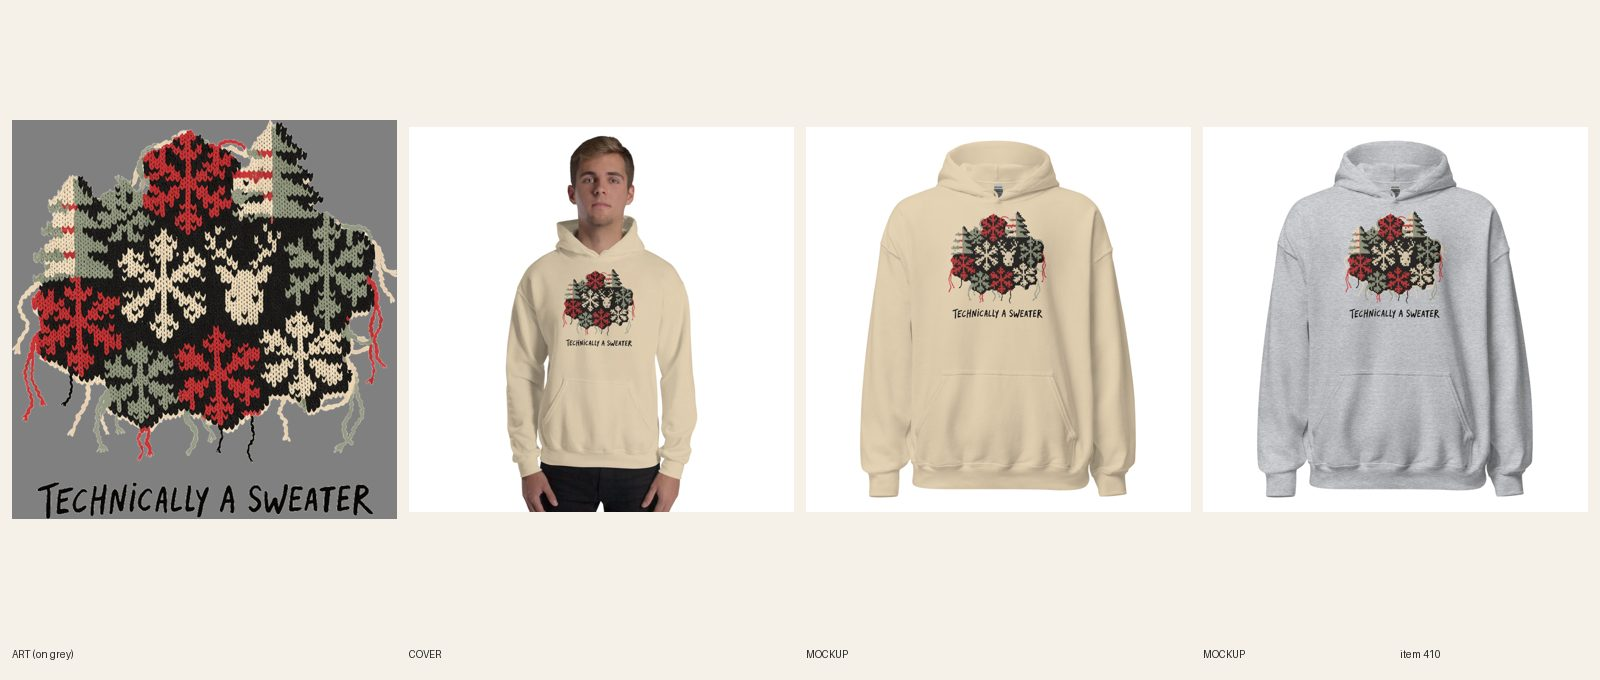
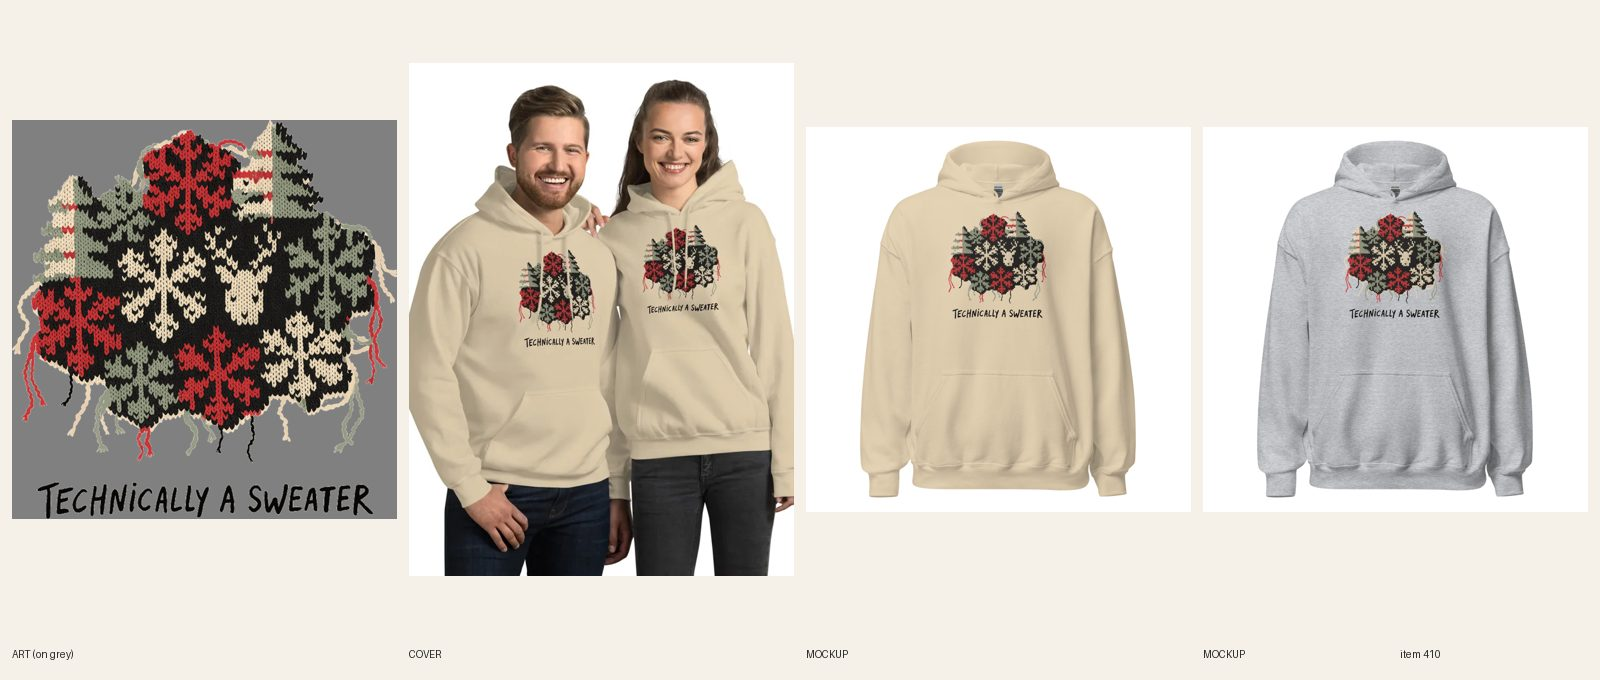
[A] review 410 Technically a Sweater hoodie cover redo

Changed region(s): [[0.25, 0.0926, 0.5, 0.8647]]

diff --git a/src/data/covers.ts b/src/data/covers.ts
@@ -339,7 +339,7 @@ export const covers: Record<string, { src: string; alt: string }> = {
   'womens-christmas-sleighping-in-hoodie': { src: '/covers/womens-christmas-sleighping-in-hoodie.webp', alt: 'Woman looking down and smiling in a Sand Sleighping In hoodie with a sleeping reindeer in a sleigh, against a white brick wall' },
   'womens-football-mom-hut-hut-hooray-hoodie': { src: '/covers/womens-football-mom-hut-hut-hooray-hoodie.webp', alt: 'Woman looking down and smiling in a Navy Hut Hut Hooray hoodie with a football, pennants and a cheer megaphone, against a white brick wall' },
   'womens-christian-ewe-are-loved-lamb-hoodie': { src: '/covers/womens-christian-ewe-are-loved-lamb-hoodie.webp', alt: 'Woman with dark bangs and her hands in the pockets of a Sand Ewe Are Loved hoodie with a woolly lamb holding a daisy' },
-  'unisex-christmas-technically-a-sweater-hoodie': { src: '/covers/unisex-christmas-technically-a-sweater-hoodie.webp', alt: 'Man with short light brown hair in a Sand Technically a Sweater hoodie with a patchwork of knit snowflakes, trees and a reindeer' },
+  'unisex-christmas-technically-a-sweater-hoodie': { src: '/covers/unisex-christmas-technically-a-sweater-hoodie.webp', alt: 'Man and woman smiling together in sand Technically a Sweater Christmas hoodies, the knit-patchwork print fully visible' },
   'womens-y2k-still-loading-zip-hoodie': { src: '/covers/womens-y2k-still-loading-zip-hoodie.webp', alt: 'Woman with dark curly hair smiling in a Navy zip-up hoodie with a small Still Loading Since 1999 retro computer print on the left chest' },
   'mens-gym-gym-rat-hoodie': { src: '/covers/mens-gym-gym-rat-hoodie.webp', alt: 'Man with short black hair and a trimmed beard in a Navy Gym Rat hoodie with a cartoon rat curling a dumbbell under GYM RAT arched in cream, mustard and red letters' },
   'womens-anime-slurp-responsibly-half-zip': { src: '/covers/womens-anime-slurp-responsibly-half-zip.webp', alt: 'Navy half zip pullover seen from the back with a large calico cat slurping ramen under SLURP RESPONSIBLY arched in coral, mint and cream letters' },

diff --git a/docs/pipeline/410-christmas-hoodie-technically-a-sweater.md b/docs/pipeline/410-christmas-hoodie-technically-a-sweater.md
@@ -1,4 +1,4 @@
-status: REDO
+status: REVIEW
 shopify: gid://shopify/Product/15363644686640
 cover: temp (swap)
 lane: A
@@ -27,3 +27,4 @@ kd: 32
 - 2026-10-17 11:14 UTC director: REDO (cover only; art, print, copy and FAQs pass and need no change).
   1. R6.3 / R7.5: this is a unisex hoodie tagged into graphic-hoodies-for-women, and the temp cover (Printful style 1455) shows a man alone, so it would sit in the women's grid as "a man in the women section". Temp mode only publishes covers that pass R6.3. Fix: pick a Printful Gildan 18500 lifestyle style that shows a man AND a woman together (couple style 1427 was used on Turkey Trot; reuse is allowed if you keep `cover: temp (swap)`, R6.6), print fully visible, nothing over TECHNICALLY A SWEATER, cover alt starting 'Man and woman'. If Printful has no couple style for this blank, make the best woman-and-man pair available or leave it in REDO and log it; do not ship the man-only cover.
   2. Everything else stands: FW 1500, lettering legible on Sand and Sport Grey, keyword ugly christmas sweater hoodie used naturally, price $39.99 no compare-at. Back to REVIEW once the cover is swapped.
+- 2026-10-17 12:12 UTC builder [A]: REDO cover fixed. Printful couple style 1427 (Gildan 18500, Sand), a man AND a woman, print fully visible on both, nothing over it, alt starts 'Man and woman'; cover stays `temp (swap)`. Art, print, copy untouched. Sheet regenerated. REVIEW.

diff --git a/docs/intake-log.md b/docs/intake-log.md
@@ -1,3 +1,4 @@
+2026-10-17 12:12 UTC — [A] REVIEW #410 Technically a Sweater hoodie: cover redo (couple style 1427, man and woman).
 2026-10-17 12:06 UTC — [A] REVIEW #411 Women's Christmas All Lit Up hoodie (twin, Navy + Black, FW 1500, lettering enlarged, temp cover, synced 12/12).
 2026-10-17 12:10 UTC — [B] Run summary (fal empty, temp-cover mode): REVIEW #418 Reel Talk hoodie, #419 Low Battery zip, #420 Still Loading zip, #421 Slurp Responsibly half zip, #422 Gym Rat hoodie, #423 Kaiju Naps zip (all twins, DRAFT, synced, cover: temp (swap)). #421 has a flat back-view cover (Printful has no model shot for the 4740 half zip, audit WARN expected). #422 art was cut from the pump-cover AOP JPG. Left: 354 pending fal cover; 378-382 and 385 need a hand re-letter (fal); ART-NEXT items wait for fal. Price chore (40 compare-at ERRORs, 25 would be lane B) NOT done: the bulk variant update was denied by the permission classifier. Lock released. (Log times above run ahead of the real clock by about 40 min; real run was 11:27-12:10 UTC.)
 RUNNING lane A since 2026-10-17 11:58 UTC
